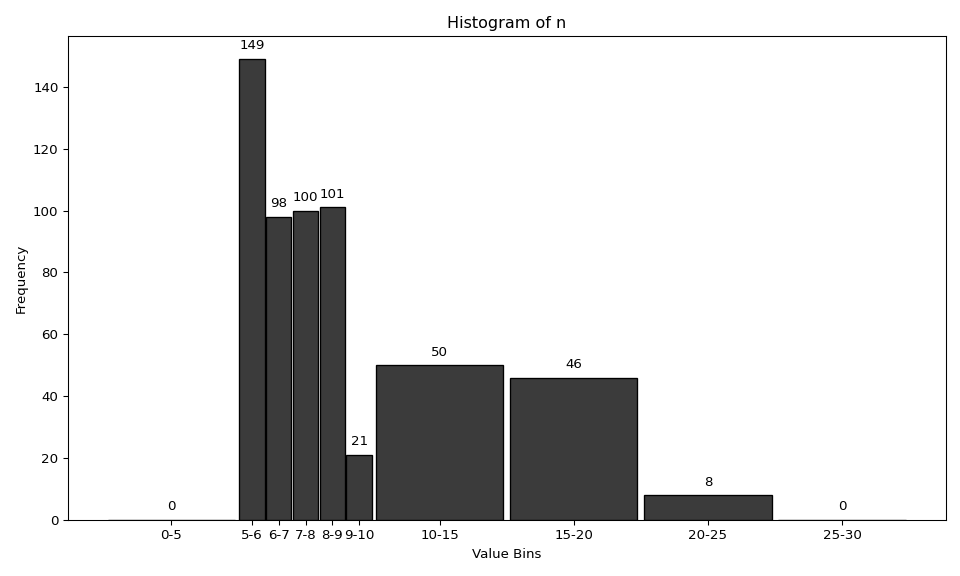
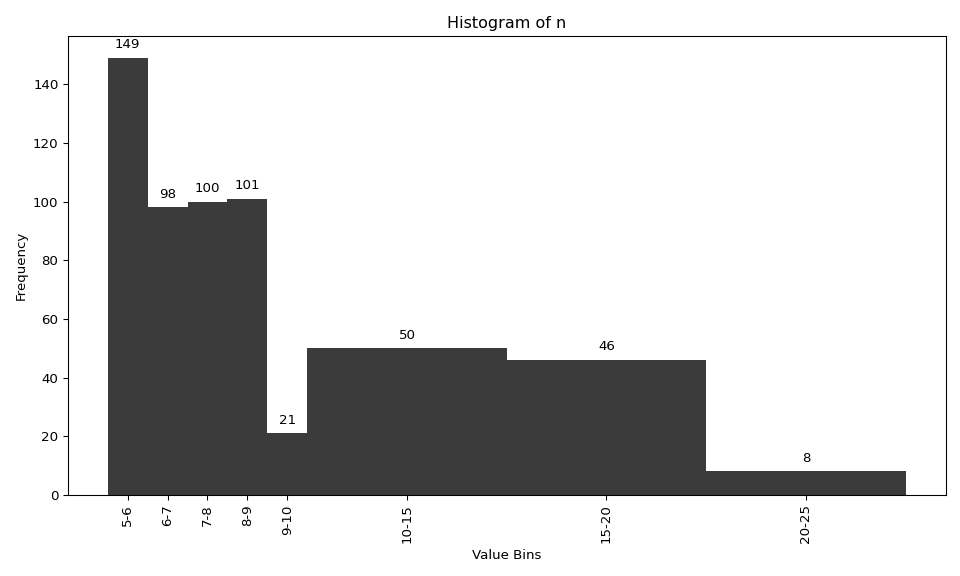
General update.

diff --git a/tool/PMP/paper.py b/tool/PMP/paper.py
@@ -160,15 +160,15 @@ funcs.print_log(file_log, f'\n### {general_index+1}. Records for Station (histog
 #funcs.print_log(file_log, f'{df_station_record.to_markdown()}', center_div=True, on_screen = print_on_screen)
 if create_plot:
     funcs.print_log(file_log, f'<img alt="R.HydroTools" src="graph/stations_histogram_count.png" width="800"></img>', center_div=True, on_screen=print_on_screen)
-    custom_bins = [0, 5, 6, 7, 8, 9, 10, 15, 20, 25, 30]
+    custom_bins = [5, 6, 7, 8, 9, 10, 15, 20, 25]
     fig, ax = plt.subplots(figsize=(10, 6))
-    N, bins, patches = ax.hist(df_station_record['n'], bins=custom_bins, color=color_plot, edgecolor='black', rwidth=0.95)
+    N, bins, patches = ax.hist(df_station_record['n'], bins=custom_bins, color=color_plot, rwidth=1) # edgecolor='black'
     ax.bar_label(patches, labels=[f'{int(c)}' for c in N], label_type='edge', padding=5)
     ax.set_title('Histogram of n')
     ax.set_xlabel('Value Bins')
     ax.set_ylabel('Frequency')
     ax.set_xticks(bins[:-1] + np.diff(bins) / 2)  # Centers the x-tick labels within the bars
-    ax.set_xticklabels([f'{bins[i].astype(int)}-{bins[i + 1].astype(int)}' for i in range(len(bins) - 1)], rotation=0, ha='center')
+    ax.set_xticklabels([f'{bins[i].astype(int)}-{bins[i + 1].astype(int)}' for i in range(len(bins) - 1)], rotation=90, ha='center')
     plt.tight_layout()  # Adjust layout to prevent labels from being cut off
     plt.savefig(f'{output_path}graph/stations_histogram_count.png', dpi=dpi)
     if show_plot: plt.show()
